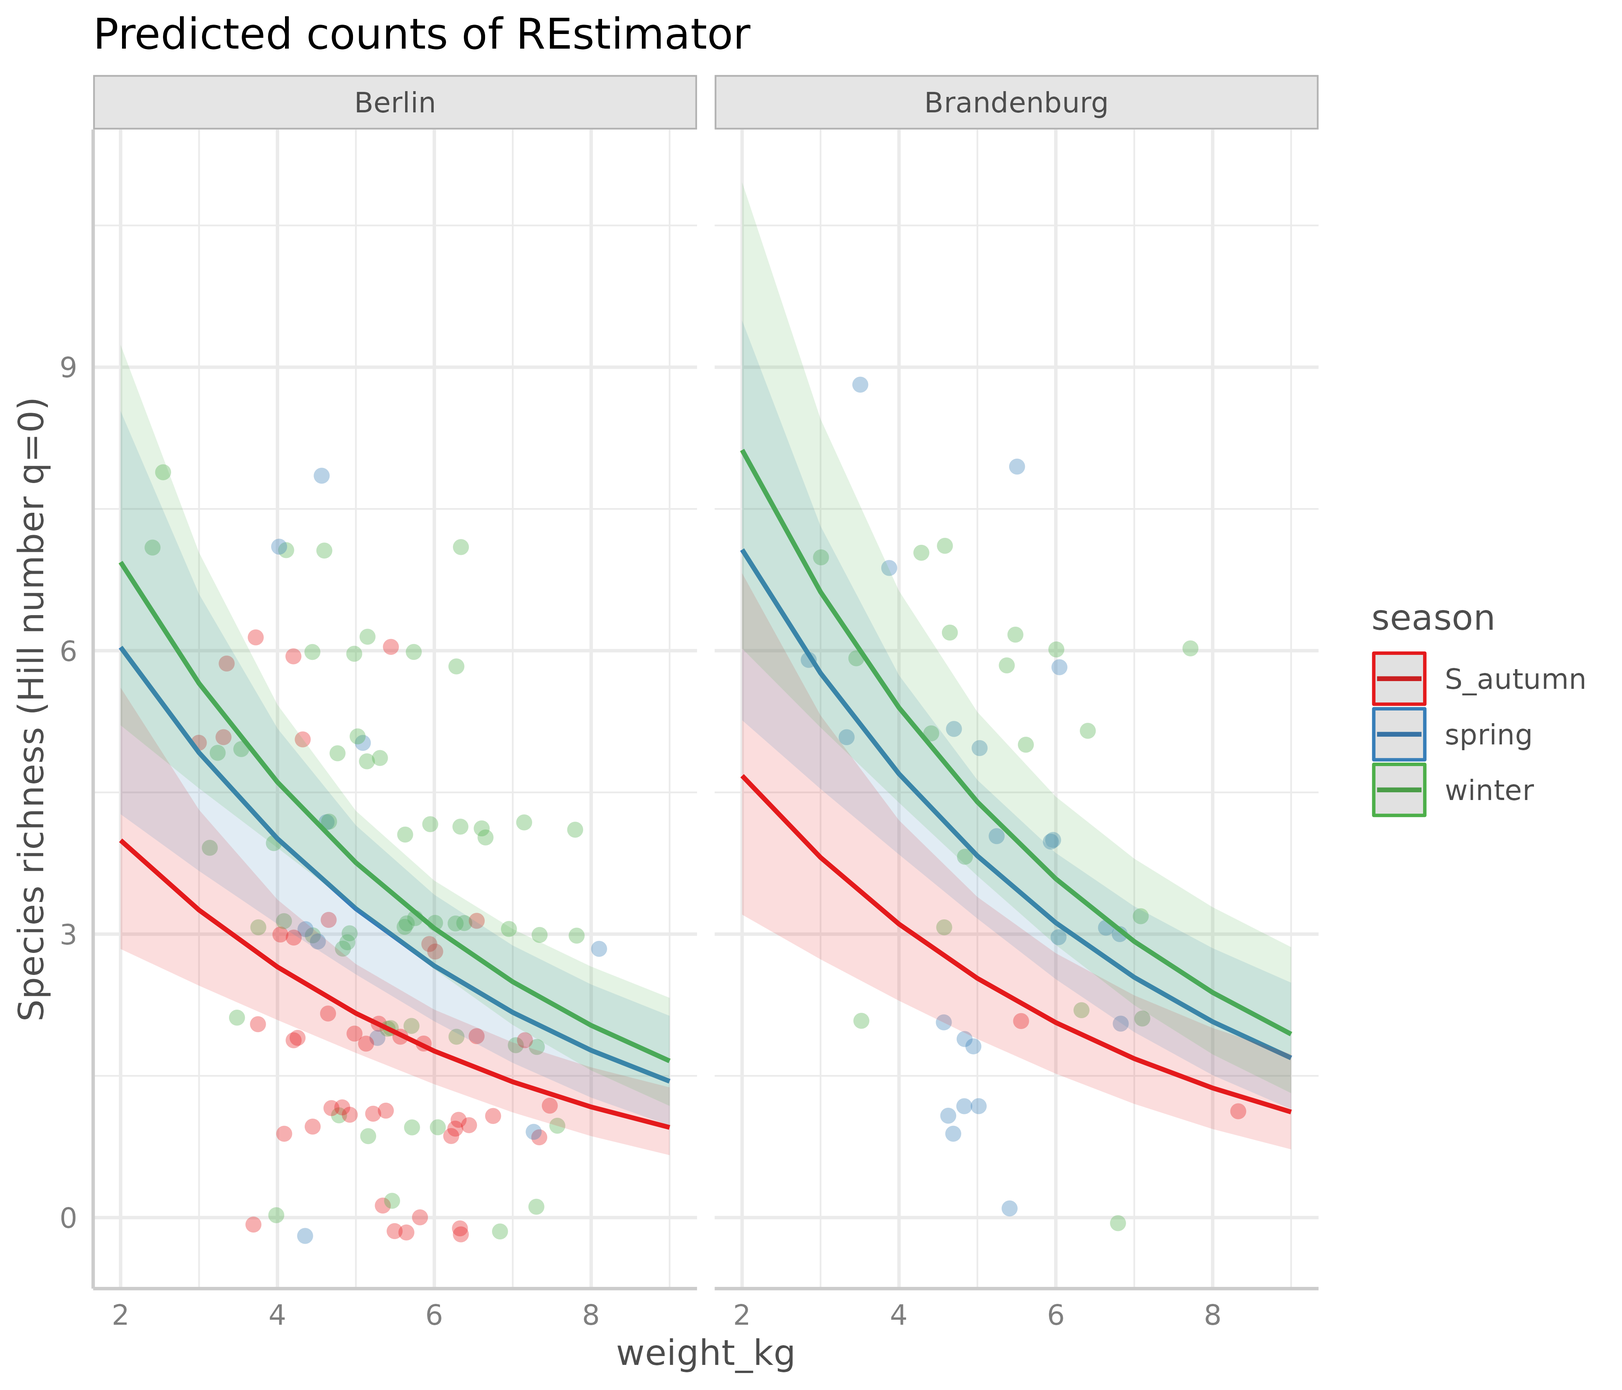
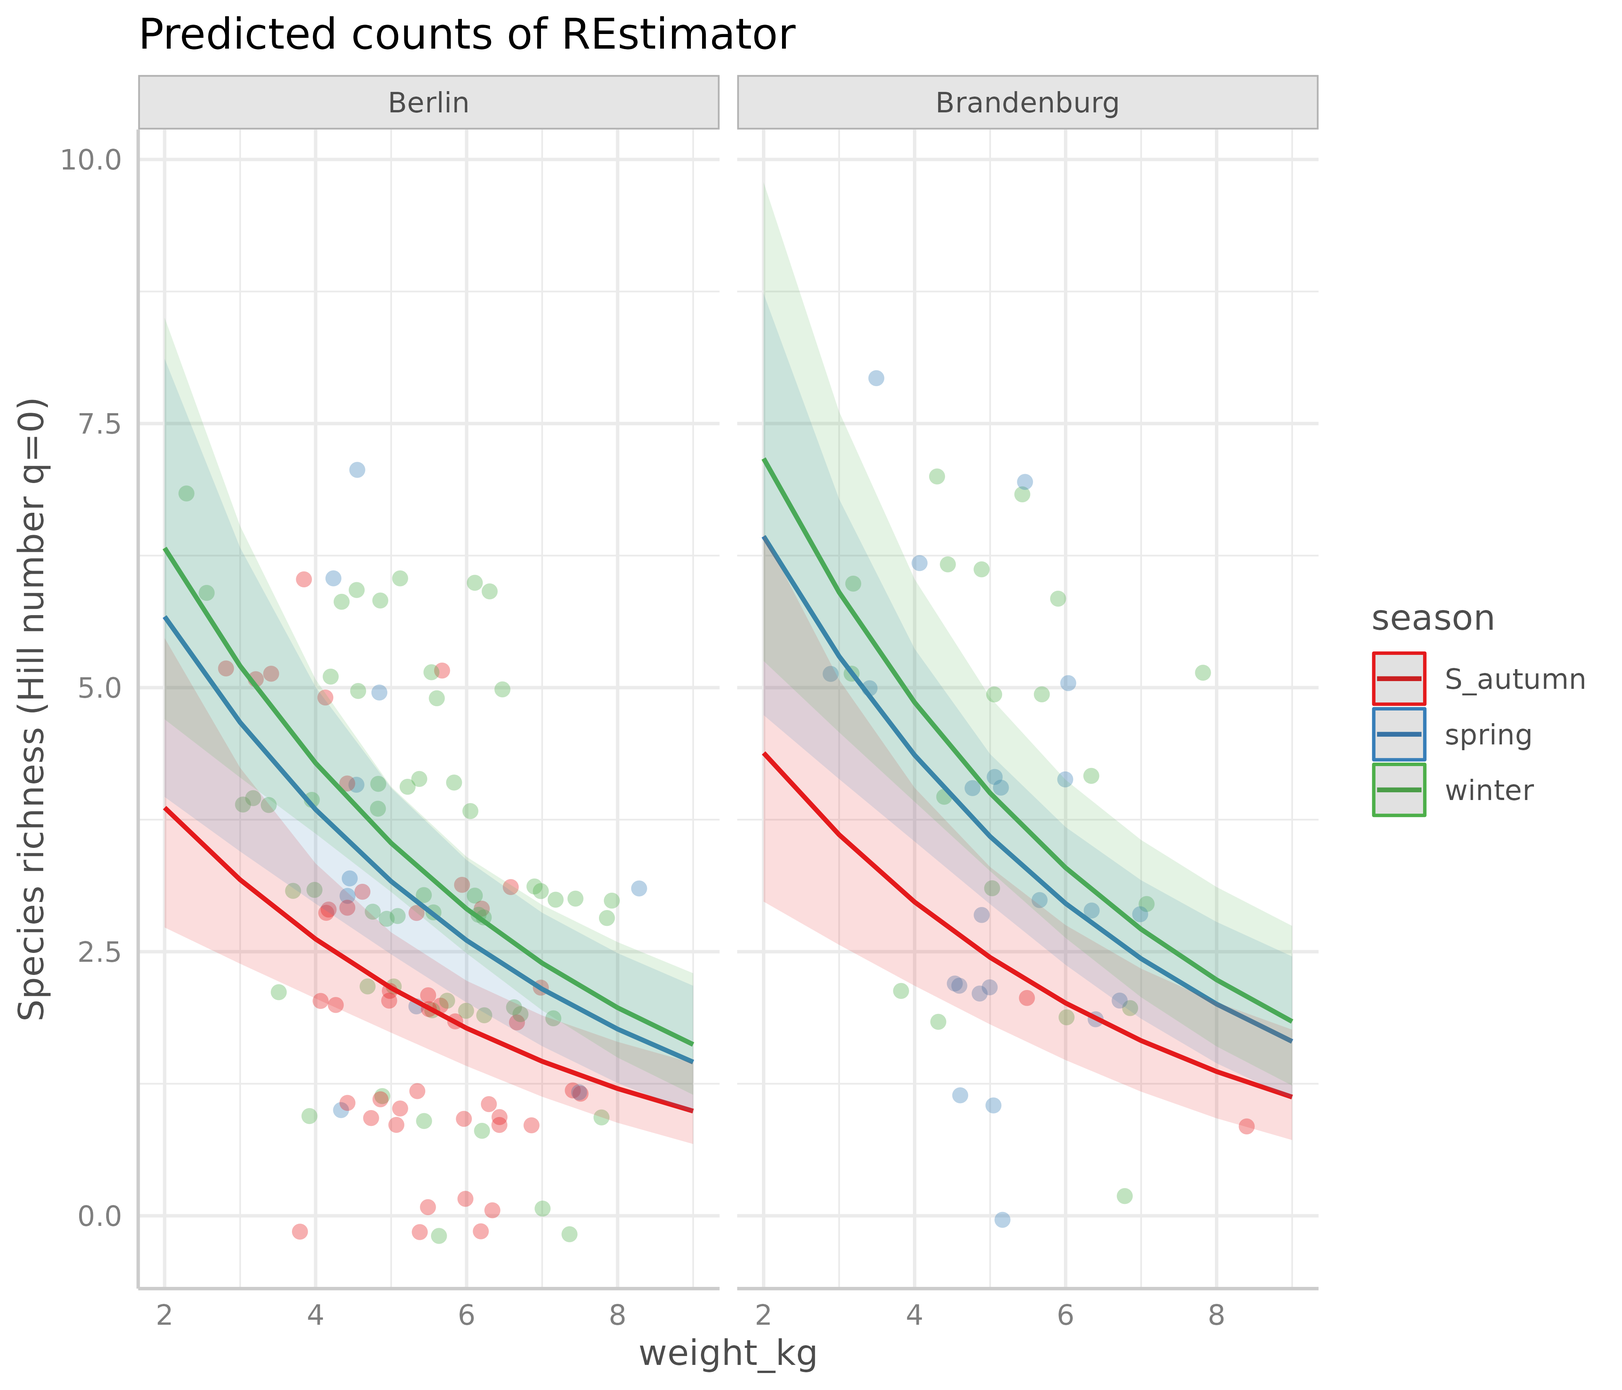
Diversity and composition with redone bioinfor (Capi/Eucol)

diff --git a/tables/suppl/HelmDiversityq1aq2.html b/tables/suppl/HelmDiversityq1aq2.html
@@ -2,43 +2,43 @@
 <table style="text-align:center"><tr><td colspan="9" style="border-bottom: 1px solid black"></td></tr><tr><td style="text-align:left"></td><td colspan="8"></td></tr>
 <tr><td style="text-align:left"></td><td>Shannon diversity (q=1)</td><td>Shannon diversity (q=1)</td><td>Shannon diversity (q=1)</td><td>Shannon diversity (q=1)</td><td>Simpson diversity (q=2)</td><td>Simpson diversity (q=2)</td><td>Simpson diversity (q=2)</td><td>Simpson diversity (q=2)</td></tr>
 <tr><td style="text-align:left"></td><td>(1)</td><td>(2)</td><td>(3)</td><td>(4)</td><td>(5)</td><td>(6)</td><td>(7)</td><td>(8)</td></tr>
-<tr><td colspan="9" style="border-bottom: 1px solid black"></td></tr><tr><td style="text-align:left">Constant</td><td>2.654<sup>***</sup></td><td>2.911<sup>***</sup></td><td>2.594<sup>***</sup></td><td>3.224<sup>***</sup></td><td>2.206<sup>***</sup></td><td>2.421<sup>***</sup></td><td>2.116<sup>***</sup></td><td>2.665<sup>***</sup></td></tr>
-<tr><td style="text-align:left"></td><td>(0.396)</td><td>(0.432)</td><td>(0.441)</td><td>(0.535)</td><td>(0.339)</td><td>(0.370)</td><td>(0.376)</td><td>(0.457)</td></tr>
+<tr><td colspan="9" style="border-bottom: 1px solid black"></td></tr><tr><td style="text-align:left">Constant</td><td>2.400<sup>***</sup></td><td>2.571<sup>***</sup></td><td>2.258<sup>***</sup></td><td>2.960<sup>***</sup></td><td>1.982<sup>***</sup></td><td>2.126<sup>***</sup></td><td>1.845<sup>***</sup></td><td>2.434<sup>***</sup></td></tr>
+<tr><td style="text-align:left"></td><td>(0.353)</td><td>(0.383)</td><td>(0.390)</td><td>(0.473)</td><td>(0.311)</td><td>(0.338)</td><td>(0.343)</td><td>(0.417)</td></tr>
 <tr><td style="text-align:left"></td><td></td><td></td><td></td><td></td><td></td><td></td><td></td><td></td></tr>
-<tr><td style="text-align:left">areaBrandenburg</td><td>0.401<sup>**</sup></td><td></td><td></td><td></td><td>0.285</td><td></td><td></td><td></td></tr>
-<tr><td style="text-align:left"></td><td>(0.201)</td><td></td><td></td><td></td><td>(0.173)</td><td></td><td></td><td></td></tr>
+<tr><td style="text-align:left">areaBrandenburg</td><td>0.256</td><td></td><td></td><td></td><td>0.181</td><td></td><td></td><td></td></tr>
+<tr><td style="text-align:left"></td><td>(0.179)</td><td></td><td></td><td></td><td>(0.158)</td><td></td><td></td><td></td></tr>
 <tr><td style="text-align:left"></td><td></td><td></td><td></td><td></td><td></td><td></td><td></td><td></td></tr>
-<tr><td style="text-align:left">imperv_1000m</td><td></td><td>-0.006</td><td></td><td></td><td></td><td>-0.005</td><td></td><td></td></tr>
-<tr><td style="text-align:left"></td><td></td><td>(0.004)</td><td></td><td></td><td></td><td>(0.003)</td><td></td><td></td></tr>
+<tr><td style="text-align:left">imperv_1000m</td><td></td><td>-0.004</td><td></td><td></td><td></td><td>-0.003</td><td></td><td></td></tr>
+<tr><td style="text-align:left"></td><td></td><td>(0.003)</td><td></td><td></td><td></td><td>(0.003)</td><td></td><td></td></tr>
 <tr><td style="text-align:left"></td><td></td><td></td><td></td><td></td><td></td><td></td><td></td><td></td></tr>
-<tr><td style="text-align:left">tree_cover_1000m</td><td></td><td></td><td>0.002</td><td></td><td></td><td></td><td>0.003</td><td></td></tr>
-<tr><td style="text-align:left"></td><td></td><td></td><td>(0.005)</td><td></td><td></td><td></td><td>(0.004)</td><td></td></tr>
+<tr><td style="text-align:left">tree_cover_1000m</td><td></td><td></td><td>0.004</td><td></td><td></td><td></td><td>0.004</td><td></td></tr>
+<tr><td style="text-align:left"></td><td></td><td></td><td>(0.004)</td><td></td><td></td><td></td><td>(0.004)</td><td></td></tr>
 <tr><td style="text-align:left"></td><td></td><td></td><td></td><td></td><td></td><td></td><td></td><td></td></tr>
-<tr><td style="text-align:left">human_fpi_1000m</td><td></td><td></td><td></td><td>-0.013</td><td></td><td></td><td></td><td>-0.010</td></tr>
-<tr><td style="text-align:left"></td><td></td><td></td><td></td><td>(0.008)</td><td></td><td></td><td></td><td>(0.007)</td></tr>
+<tr><td style="text-align:left">human_fpi_1000m</td><td></td><td></td><td></td><td>-0.013<sup>*</sup></td><td></td><td></td><td></td><td>-0.010</td></tr>
+<tr><td style="text-align:left"></td><td></td><td></td><td></td><td>(0.007)</td><td></td><td></td><td></td><td>(0.007)</td></tr>
 <tr><td style="text-align:left"></td><td></td><td></td><td></td><td></td><td></td><td></td><td></td><td></td></tr>
-<tr><td style="text-align:left">conditionexcellent</td><td>-0.201</td><td>-0.150</td><td>-0.159</td><td>-0.190</td><td>-0.160</td><td>-0.121</td><td>-0.126</td><td>-0.153</td></tr>
-<tr><td style="text-align:left"></td><td>(0.180)</td><td>(0.181)</td><td>(0.183)</td><td>(0.182)</td><td>(0.155)</td><td>(0.155)</td><td>(0.156)</td><td>(0.156)</td></tr>
+<tr><td style="text-align:left">conditionexcellent</td><td>-0.089</td><td>-0.060</td><td>-0.063</td><td>-0.097</td><td>-0.061</td><td>-0.038</td><td>-0.039</td><td>-0.069</td></tr>
+<tr><td style="text-align:left"></td><td>(0.161)</td><td>(0.161)</td><td>(0.161)</td><td>(0.161)</td><td>(0.142)</td><td>(0.142)</td><td>(0.142)</td><td>(0.142)</td></tr>
 <tr><td style="text-align:left"></td><td></td><td></td><td></td><td></td><td></td><td></td><td></td><td></td></tr>
-<tr><td style="text-align:left">weight_kg</td><td>-0.240<sup>***</sup></td><td>-0.246<sup>***</sup></td><td>-0.251<sup>***</sup></td><td>-0.256<sup>***</sup></td><td>-0.178<sup>***</sup></td><td>-0.181<sup>***</sup></td><td>-0.185<sup>***</sup></td><td>-0.189<sup>***</sup></td></tr>
-<tr><td style="text-align:left"></td><td>(0.070)</td><td>(0.070)</td><td>(0.071)</td><td>(0.070)</td><td>(0.060)</td><td>(0.060)</td><td>(0.060)</td><td>(0.060)</td></tr>
+<tr><td style="text-align:left">weight_kg</td><td>-0.211<sup>***</sup></td><td>-0.214<sup>***</sup></td><td>-0.215<sup>***</sup></td><td>-0.221<sup>***</sup></td><td>-0.151<sup>***</sup></td><td>-0.152<sup>***</sup></td><td>-0.153<sup>***</sup></td><td>-0.158<sup>***</sup></td></tr>
+<tr><td style="text-align:left"></td><td>(0.062)</td><td>(0.062)</td><td>(0.062)</td><td>(0.062)</td><td>(0.055)</td><td>(0.055)</td><td>(0.055)</td><td>(0.055)</td></tr>
 <tr><td style="text-align:left"></td><td></td><td></td><td></td><td></td><td></td><td></td><td></td><td></td></tr>
-<tr><td style="text-align:left">sexmale</td><td>0.151</td><td>0.199</td><td>0.235</td><td>0.168</td><td>0.110</td><td>0.137</td><td>0.167</td><td>0.116</td></tr>
-<tr><td style="text-align:left"></td><td>(0.178)</td><td>(0.180)</td><td>(0.180)</td><td>(0.180)</td><td>(0.152)</td><td>(0.154)</td><td>(0.153)</td><td>(0.154)</td></tr>
+<tr><td style="text-align:left">sexmale</td><td>0.159</td><td>0.199</td><td>0.225</td><td>0.157</td><td>0.114</td><td>0.136</td><td>0.158</td><td>0.107</td></tr>
+<tr><td style="text-align:left"></td><td>(0.159)</td><td>(0.160)</td><td>(0.159)</td><td>(0.160)</td><td>(0.140)</td><td>(0.141)</td><td>(0.140)</td><td>(0.141)</td></tr>
 <tr><td style="text-align:left"></td><td></td><td></td><td></td><td></td><td></td><td></td><td></td><td></td></tr>
-<tr><td style="text-align:left">agejuvenil</td><td>-0.199</td><td>-0.307</td><td>-0.344</td><td>-0.267</td><td>-0.189</td><td>-0.256</td><td>-0.288</td><td>-0.238</td></tr>
-<tr><td style="text-align:left"></td><td>(0.304)</td><td>(0.315)</td><td>(0.316)</td><td>(0.304)</td><td>(0.260)</td><td>(0.269)</td><td>(0.270)</td><td>(0.260)</td></tr>
+<tr><td style="text-align:left">agejuvenil</td><td>-0.091</td><td>-0.175</td><td>-0.205</td><td>-0.135</td><td>-0.093</td><td>-0.142</td><td>-0.167</td><td>-0.124</td></tr>
+<tr><td style="text-align:left"></td><td>(0.271)</td><td>(0.279)</td><td>(0.279)</td><td>(0.269)</td><td>(0.239)</td><td>(0.246)</td><td>(0.246)</td><td>(0.237)</td></tr>
 <tr><td style="text-align:left"></td><td></td><td></td><td></td><td></td><td></td><td></td><td></td><td></td></tr>
-<tr><td style="text-align:left">seasonspring</td><td>0.288</td><td>0.423<sup>*</sup></td><td>0.558<sup>**</sup></td><td>0.404</td><td>0.232</td><td>0.311</td><td>0.428<sup>**</sup></td><td>0.301</td></tr>
-<tr><td style="text-align:left"></td><td>(0.260)</td><td>(0.244)</td><td>(0.230)</td><td>(0.246)</td><td>(0.223)</td><td>(0.208)</td><td>(0.197)</td><td>(0.210)</td></tr>
+<tr><td style="text-align:left">seasonspring</td><td>0.418<sup>*</sup></td><td>0.500<sup>**</sup></td><td>0.604<sup>***</sup></td><td>0.441<sup>**</sup></td><td>0.344<sup>*</sup></td><td>0.390<sup>**</sup></td><td>0.478<sup>***</sup></td><td>0.345<sup>*</sup></td></tr>
+<tr><td style="text-align:left"></td><td>(0.232)</td><td>(0.217)</td><td>(0.204)</td><td>(0.218)</td><td>(0.205)</td><td>(0.191)</td><td>(0.180)</td><td>(0.192)</td></tr>
 <tr><td style="text-align:left"></td><td></td><td></td><td></td><td></td><td></td><td></td><td></td><td></td></tr>
-<tr><td style="text-align:left">seasonwinter</td><td>0.499<sup>**</sup></td><td>0.505<sup>**</sup></td><td>0.567<sup>***</sup></td><td>0.527<sup>***</sup></td><td>0.339<sup>**</sup></td><td>0.336<sup>*</sup></td><td>0.386<sup>**</sup></td><td>0.357<sup>**</sup></td></tr>
-<tr><td style="text-align:left"></td><td>(0.196)</td><td>(0.201)</td><td>(0.197)</td><td>(0.198)</td><td>(0.168)</td><td>(0.172)</td><td>(0.168)</td><td>(0.169)</td></tr>
+<tr><td style="text-align:left">seasonwinter</td><td>0.473<sup>***</sup></td><td>0.470<sup>***</sup></td><td>0.506<sup>***</sup></td><td>0.470<sup>***</sup></td><td>0.332<sup>**</sup></td><td>0.325<sup>**</sup></td><td>0.354<sup>**</sup></td><td>0.326<sup>**</sup></td></tr>
+<tr><td style="text-align:left"></td><td>(0.176)</td><td>(0.179)</td><td>(0.175)</td><td>(0.175)</td><td>(0.155)</td><td>(0.158)</td><td>(0.154)</td><td>(0.155)</td></tr>
 <tr><td style="text-align:left"></td><td></td><td></td><td></td><td></td><td></td><td></td><td></td><td></td></tr>
-<tr><td colspan="9" style="border-bottom: 1px solid black"></td></tr><tr><td style="text-align:left">Observations</td><td>156</td><td>154</td><td>154</td><td>155</td><td>156</td><td>154</td><td>154</td><td>155</td></tr>
-<tr><td style="text-align:left">R<sup>2</sup></td><td>0.200</td><td>0.195</td><td>0.184</td><td>0.191</td><td>0.156</td><td>0.155</td><td>0.145</td><td>0.152</td></tr>
-<tr><td style="text-align:left">Adjusted R<sup>2</sup></td><td>0.162</td><td>0.156</td><td>0.145</td><td>0.153</td><td>0.116</td><td>0.114</td><td>0.105</td><td>0.112</td></tr>
-<tr><td style="text-align:left">Residual Std. Error</td><td>0.945 (df = 148)</td><td>0.953 (df = 146)</td><td>0.960 (df = 146)</td><td>0.953 (df = 147)</td><td>0.809 (df = 148)</td><td>0.815 (df = 146)</td><td>0.819 (df = 146)</td><td>0.814 (df = 147)</td></tr>
-<tr><td style="text-align:left">F Statistic</td><td>5.296<sup>***</sup> (df = 7; 148)</td><td>5.048<sup>***</sup> (df = 7; 146)</td><td>4.699<sup>***</sup> (df = 7; 146)</td><td>4.967<sup>***</sup> (df = 7; 147)</td><td>3.901<sup>***</sup> (df = 7; 148)</td><td>3.825<sup>***</sup> (df = 7; 146)</td><td>3.551<sup>***</sup> (df = 7; 146)</td><td>3.768<sup>***</sup> (df = 7; 147)</td></tr>
+<tr><td colspan="9" style="border-bottom: 1px solid black"></td></tr><tr><td style="text-align:left">Observations</td><td>155</td><td>153</td><td>153</td><td>154</td><td>155</td><td>153</td><td>153</td><td>154</td></tr>
+<tr><td style="text-align:left">R<sup>2</sup></td><td>0.182</td><td>0.182</td><td>0.178</td><td>0.186</td><td>0.132</td><td>0.134</td><td>0.132</td><td>0.139</td></tr>
+<tr><td style="text-align:left">Adjusted R<sup>2</sup></td><td>0.143</td><td>0.142</td><td>0.139</td><td>0.147</td><td>0.091</td><td>0.092</td><td>0.090</td><td>0.098</td></tr>
+<tr><td style="text-align:left">Residual Std. Error</td><td>0.841 (df = 147)</td><td>0.845 (df = 145)</td><td>0.847 (df = 145)</td><td>0.841 (df = 146)</td><td>0.741 (df = 147)</td><td>0.745 (df = 145)</td><td>0.746 (df = 145)</td><td>0.741 (df = 146)</td></tr>
+<tr><td style="text-align:left">F Statistic</td><td>4.666<sup>***</sup> (df = 7; 147)</td><td>4.594<sup>***</sup> (df = 7; 145)</td><td>4.498<sup>***</sup> (df = 7; 145)</td><td>4.779<sup>***</sup> (df = 7; 146)</td><td>3.198<sup>***</sup> (df = 7; 147)</td><td>3.192<sup>***</sup> (df = 7; 145)</td><td>3.155<sup>***</sup> (df = 7; 145)</td><td>3.365<sup>***</sup> (df = 7; 146)</td></tr>
 <tr><td colspan="9" style="border-bottom: 1px solid black"></td></tr><tr><td style="text-align:left"><em>Note:</em></td><td colspan="8" style="text-align:right"><sup>*</sup>p<0.1; <sup>**</sup>p<0.05; <sup>***</sup>p<0.01</td></tr>
 </table>

diff --git a/tables/HelmDiversityq0.html b/tables/HelmDiversityq0.html
@@ -3,41 +3,41 @@
 <tr><td></td><td colspan="5" style="border-bottom: 1px solid black"></td></tr>
 <tr><td style="text-align:left"></td><td colspan="5"></td></tr>
 <tr><td style="text-align:left"></td><td>(1)</td><td>(2)</td><td>(3)</td><td>(4)</td><td>(5)</td></tr>
-<tr><td colspan="6" style="border-bottom: 1px solid black"></td></tr><tr><td style="text-align:left">Constant</td><td>1.766<sup>***</sup></td><td>1.795<sup>***</sup></td><td>1.734<sup>***</sup></td><td>1.881<sup>***</sup></td><td>1.716<sup>***</sup></td></tr>
-<tr><td style="text-align:left"></td><td>(0.235)</td><td>(0.256)</td><td>(0.253)</td><td>(0.315)</td><td>(0.343)</td></tr>
+<tr><td colspan="6" style="border-bottom: 1px solid black"></td></tr><tr><td style="text-align:left">Constant</td><td>1.703<sup>***</sup></td><td>1.738<sup>***</sup></td><td>1.632<sup>***</sup></td><td>1.854<sup>***</sup></td><td>1.666<sup>***</sup></td></tr>
+<tr><td style="text-align:left"></td><td>(0.241)</td><td>(0.263)</td><td>(0.261)</td><td>(0.323)</td><td>(0.355)</td></tr>
 <tr><td style="text-align:left"></td><td></td><td></td><td></td><td></td><td></td></tr>
-<tr><td style="text-align:left">areaBrandenburg</td><td>0.158</td><td></td><td></td><td></td><td></td></tr>
-<tr><td style="text-align:left"></td><td>(0.110)</td><td></td><td></td><td></td><td></td></tr>
+<tr><td style="text-align:left">areaBrandenburg</td><td>0.126</td><td></td><td></td><td></td><td></td></tr>
+<tr><td style="text-align:left"></td><td>(0.114)</td><td></td><td></td><td></td><td></td></tr>
 <tr><td style="text-align:left"></td><td></td><td></td><td></td><td></td><td></td></tr>
-<tr><td style="text-align:left">imperv_1000m</td><td></td><td>-0.001</td><td></td><td></td><td>-0.002</td></tr>
+<tr><td style="text-align:left">imperv_1000m</td><td></td><td>-0.001</td><td></td><td></td><td>-0.001</td></tr>
 <tr><td style="text-align:left"></td><td></td><td>(0.002)</td><td></td><td></td><td>(0.004)</td></tr>
 <tr><td style="text-align:left"></td><td></td><td></td><td></td><td></td><td></td></tr>
-<tr><td style="text-align:left">tree_cover_1000m</td><td></td><td></td><td>0.001</td><td></td><td>0.0004</td></tr>
+<tr><td style="text-align:left">tree_cover_1000m</td><td></td><td></td><td>0.002</td><td></td><td>0.001</td></tr>
 <tr><td style="text-align:left"></td><td></td><td></td><td>(0.003)</td><td></td><td>(0.003)</td></tr>
 <tr><td style="text-align:left"></td><td></td><td></td><td></td><td></td><td></td></tr>
-<tr><td style="text-align:left">human_fpi_1000m</td><td></td><td></td><td></td><td>-0.002</td><td>0.002</td></tr>
+<tr><td style="text-align:left">human_fpi_1000m</td><td></td><td></td><td></td><td>-0.003</td><td>0.0004</td></tr>
 <tr><td style="text-align:left"></td><td></td><td></td><td></td><td>(0.005)</td><td>(0.008)</td></tr>
 <tr><td style="text-align:left"></td><td></td><td></td><td></td><td></td><td></td></tr>
-<tr><td style="text-align:left">conditionexcellent</td><td>-0.072</td><td>-0.067</td><td>-0.067</td><td>-0.068</td><td>-0.058</td></tr>
-<tr><td style="text-align:left"></td><td>(0.100)</td><td>(0.100)</td><td>(0.100)</td><td>(0.101)</td><td>(0.104)</td></tr>
+<tr><td style="text-align:left">conditionexcellent</td><td>-0.068</td><td>-0.067</td><td>-0.065</td><td>-0.071</td><td>-0.062</td></tr>
+<tr><td style="text-align:left"></td><td>(0.104)</td><td>(0.103)</td><td>(0.103)</td><td>(0.104)</td><td>(0.107)</td></tr>
 <tr><td style="text-align:left"></td><td></td><td></td><td></td><td></td><td></td></tr>
-<tr><td style="text-align:left">weight_kg</td><td>-0.204<sup>***</sup></td><td>-0.210<sup>***</sup></td><td>-0.210<sup>***</sup></td><td>-0.212<sup>***</sup></td><td>-0.208<sup>***</sup></td></tr>
-<tr><td style="text-align:left"></td><td>(0.041)</td><td>(0.041)</td><td>(0.041)</td><td>(0.041)</td><td>(0.041)</td></tr>
+<tr><td style="text-align:left">weight_kg</td><td>-0.194<sup>***</sup></td><td>-0.198<sup>***</sup></td><td>-0.199<sup>***</sup></td><td>-0.201<sup>***</sup></td><td>-0.198<sup>***</sup></td></tr>
+<tr><td style="text-align:left"></td><td>(0.042)</td><td>(0.042)</td><td>(0.042)</td><td>(0.042)</td><td>(0.043)</td></tr>
 <tr><td style="text-align:left"></td><td></td><td></td><td></td><td></td><td></td></tr>
-<tr><td style="text-align:left">sexmale</td><td>0.125</td><td>0.181<sup>*</sup></td><td>0.187<sup>*</sup></td><td>0.157</td><td>0.186<sup>*</sup></td></tr>
-<tr><td style="text-align:left"></td><td>(0.104)</td><td>(0.105)</td><td>(0.104)</td><td>(0.105)</td><td>(0.106)</td></tr>
+<tr><td style="text-align:left">sexmale</td><td>0.128</td><td>0.180<sup>*</sup></td><td>0.189<sup>*</sup></td><td>0.152</td><td>0.185<sup>*</sup></td></tr>
+<tr><td style="text-align:left"></td><td>(0.107)</td><td>(0.108)</td><td>(0.107)</td><td>(0.108)</td><td>(0.110)</td></tr>
 <tr><td style="text-align:left"></td><td></td><td></td><td></td><td></td><td></td></tr>
-<tr><td style="text-align:left">agejuvenil</td><td>-0.002</td><td>-0.143</td><td>-0.150</td><td>-0.033</td><td>-0.144</td></tr>
-<tr><td style="text-align:left"></td><td>(0.198)</td><td>(0.212)</td><td>(0.212)</td><td>(0.196)</td><td>(0.212)</td></tr>
+<tr><td style="text-align:left">agejuvenil</td><td>0.051</td><td>-0.075</td><td>-0.086</td><td>0.027</td><td>-0.081</td></tr>
+<tr><td style="text-align:left"></td><td>(0.197)</td><td>(0.210)</td><td>(0.210)</td><td>(0.196)</td><td>(0.211)</td></tr>
 <tr><td style="text-align:left"></td><td></td><td></td><td></td><td></td><td></td></tr>
-<tr><td style="text-align:left">seasonspring</td><td>0.413<sup>**</sup></td><td>0.510<sup>***</sup></td><td>0.530<sup>***</sup></td><td>0.489<sup>***</sup></td><td>0.519<sup>***</sup></td></tr>
-<tr><td style="text-align:left"></td><td>(0.163)</td><td>(0.156)</td><td>(0.148)</td><td>(0.155)</td><td>(0.158)</td></tr>
+<tr><td style="text-align:left">seasonspring</td><td>0.384<sup>**</sup></td><td>0.454<sup>***</sup></td><td>0.482<sup>***</sup></td><td>0.429<sup>***</sup></td><td>0.465<sup>***</sup></td></tr>
+<tr><td style="text-align:left"></td><td>(0.166)</td><td>(0.159)</td><td>(0.151)</td><td>(0.158)</td><td>(0.161)</td></tr>
 <tr><td style="text-align:left"></td><td></td><td></td><td></td><td></td><td></td></tr>
-<tr><td style="text-align:left">seasonwinter</td><td>0.552<sup>***</sup></td><td>0.573<sup>***</sup></td><td>0.581<sup>***</sup></td><td>0.565<sup>***</sup></td><td>0.571<sup>***</sup></td></tr>
-<tr><td style="text-align:left"></td><td>(0.133)</td><td>(0.136)</td><td>(0.133)</td><td>(0.132)</td><td>(0.136)</td></tr>
+<tr><td style="text-align:left">seasonwinter</td><td>0.492<sup>***</sup></td><td>0.501<sup>***</sup></td><td>0.509<sup>***</sup></td><td>0.493<sup>***</sup></td><td>0.499<sup>***</sup></td></tr>
+<tr><td style="text-align:left"></td><td>(0.135)</td><td>(0.138)</td><td>(0.135)</td><td>(0.135)</td><td>(0.138)</td></tr>
 <tr><td style="text-align:left"></td><td></td><td></td><td></td><td></td><td></td></tr>
-<tr><td colspan="6" style="border-bottom: 1px solid black"></td></tr><tr><td style="text-align:left">Observations</td><td>156</td><td>154</td><td>154</td><td>155</td><td>154</td></tr>
-<tr><td style="text-align:left">Log Likelihood</td><td>-308.426</td><td>-302.972</td><td>-303.003</td><td>-306.953</td><td>-302.910</td></tr>
-<tr><td style="text-align:left">Akaike Inf. Crit.</td><td>632.852</td><td>621.943</td><td>622.006</td><td>629.907</td><td>625.819</td></tr>
+<tr><td colspan="6" style="border-bottom: 1px solid black"></td></tr><tr><td style="text-align:left">Observations</td><td>155</td><td>153</td><td>153</td><td>154</td><td>153</td></tr>
+<tr><td style="text-align:left">Log Likelihood</td><td>-287.609</td><td>-281.651</td><td>-281.570</td><td>-285.425</td><td>-281.506</td></tr>
+<tr><td style="text-align:left">Akaike Inf. Crit.</td><td>591.218</td><td>579.303</td><td>579.140</td><td>586.851</td><td>583.012</td></tr>
 <tr><td colspan="6" style="border-bottom: 1px solid black"></td></tr><tr><td style="text-align:left"><em>Note:</em></td><td colspan="5" style="text-align:right"><sup>*</sup>p<0.1; <sup>**</sup>p<0.05; <sup>***</sup>p<0.01</td></tr>
 </table>
